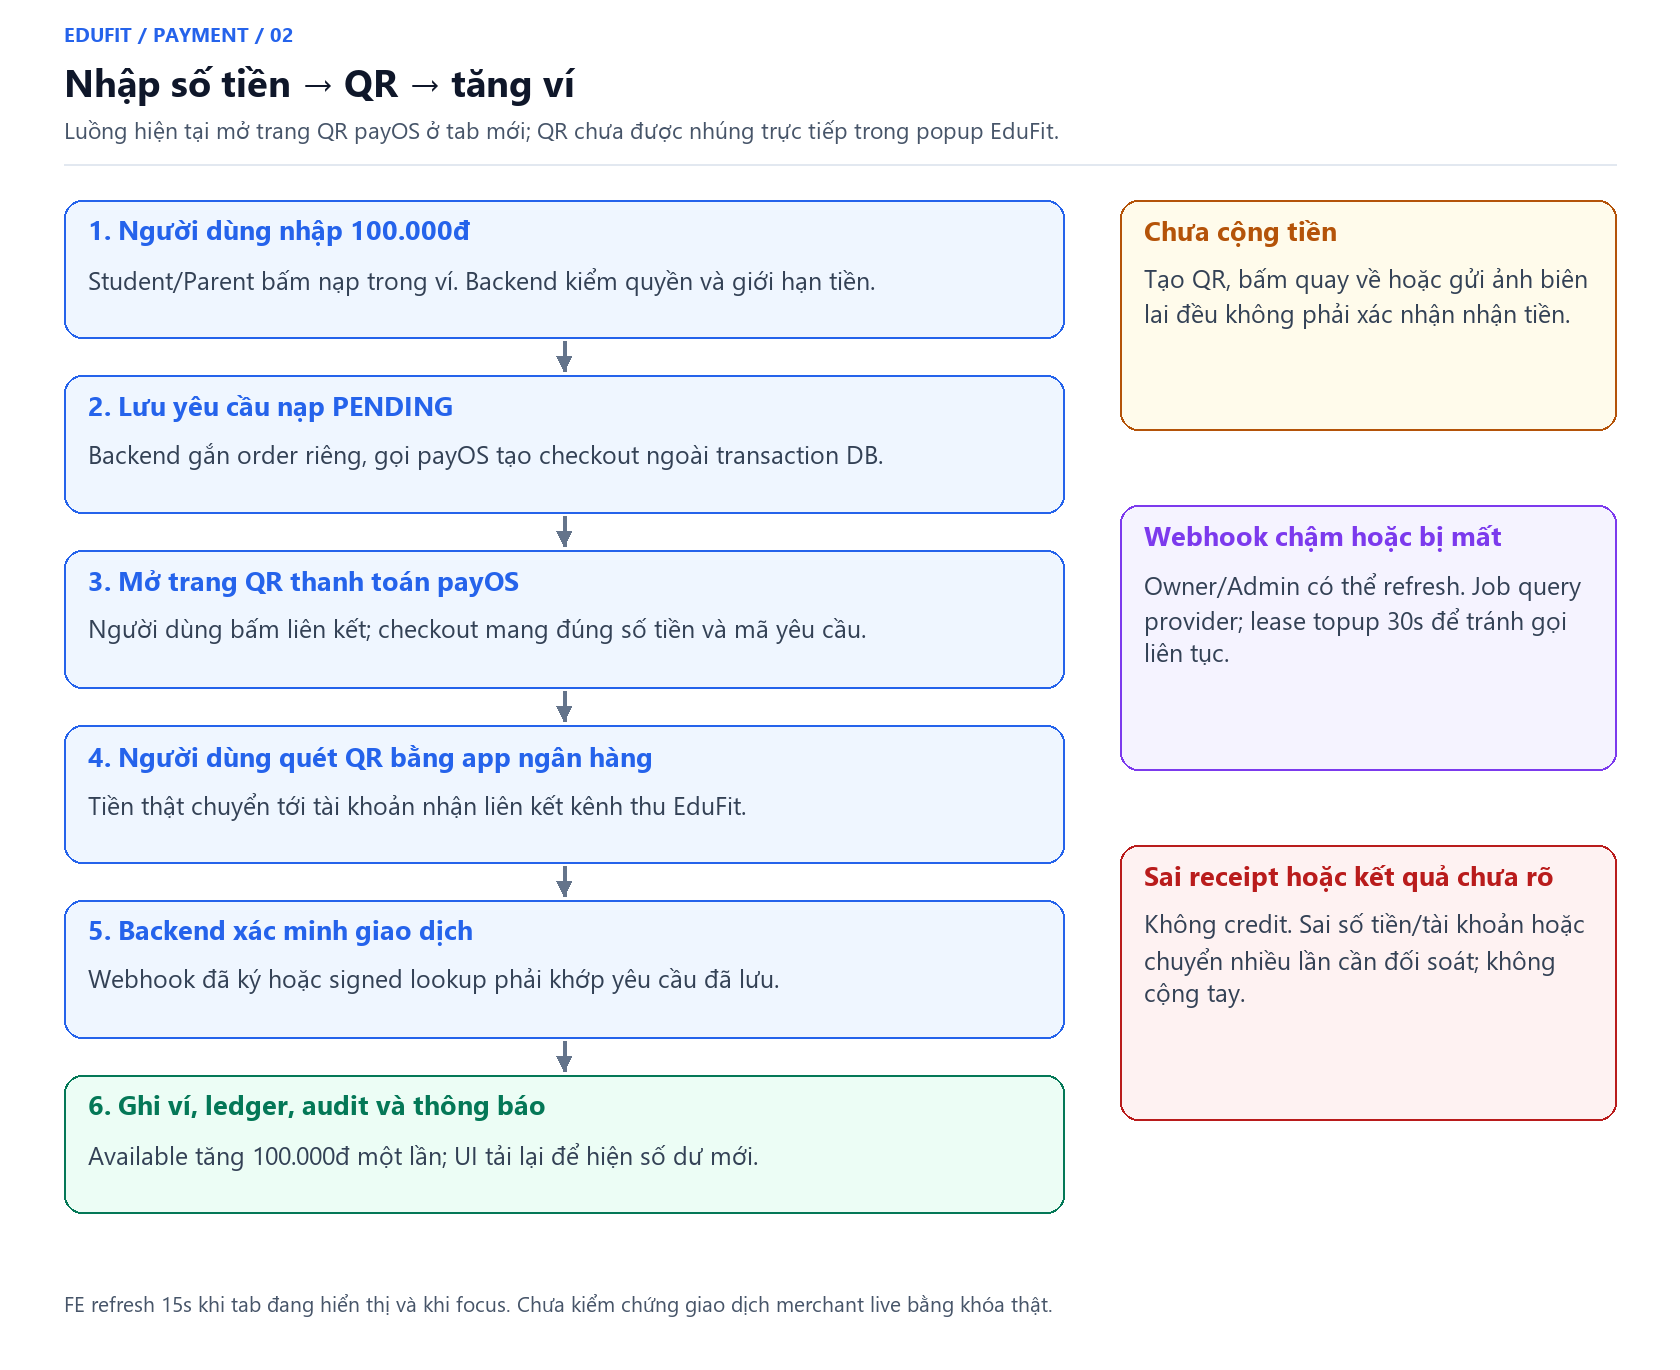
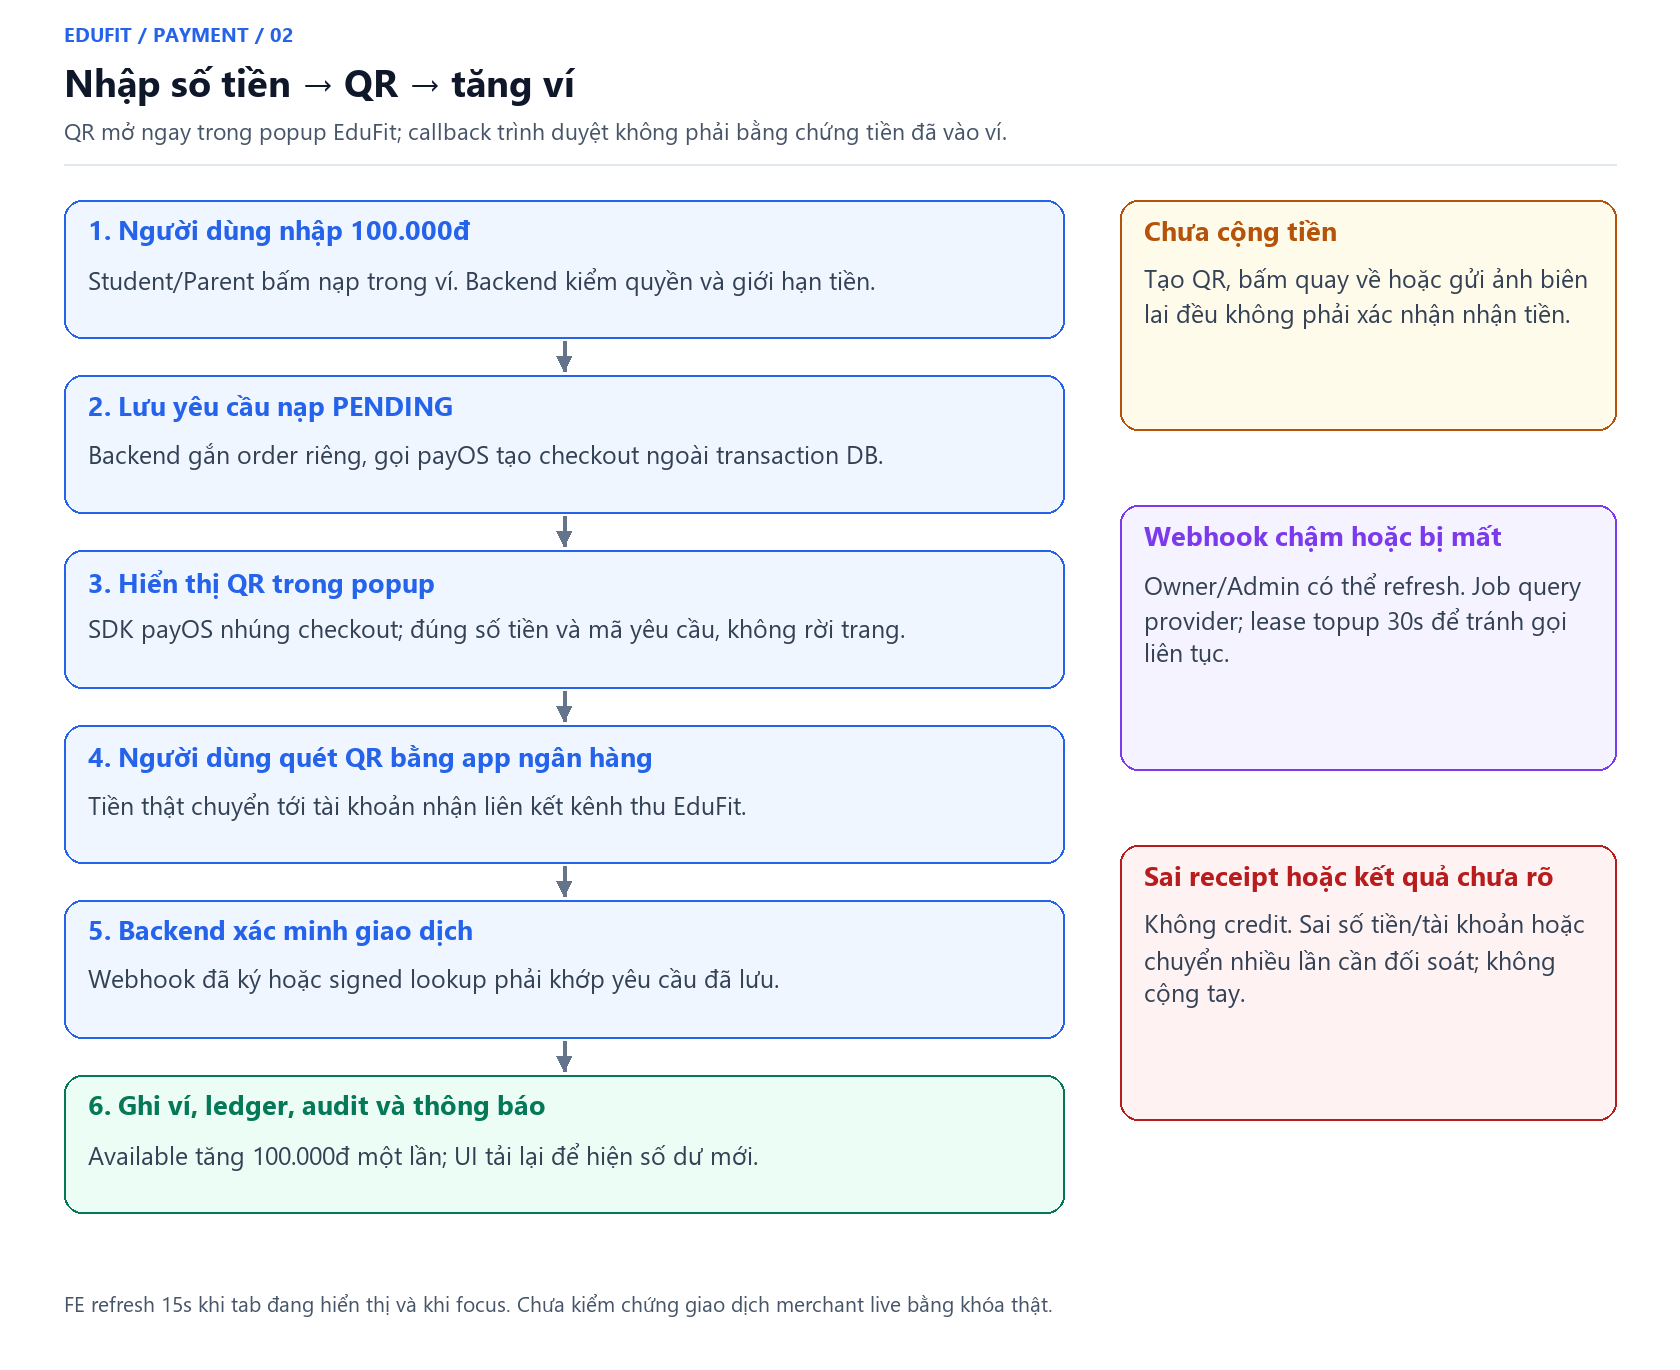
docs(payment): document compact wallets and embedded QR checkout

Changed region(s): [[0.0619, 0.3985, 0.5262, 0.4905], [0.031, 0.092, 0.619, 0.1226]]

diff --git a/scripts/render-payment-diagrams.py b/scripts/render-payment-diagrams.py
@@ -142,11 +142,11 @@ def overview():
 
 
 def topup():
-    d=Diagram('payment-topup-flow',2,'Nhập số tiền → QR → tăng ví','Luồng hiện tại mở trang QR payOS ở tab mới; QR chưa được nhúng trực tiếp trong popup EduFit.',1370)
+    d=Diagram('payment-topup-flow',2,'Nhập số tiền → QR → tăng ví','QR mở ngay trong popup EduFit; callback trình duyệt không phải bằng chứng tiền đã vào ví.',1370)
     steps=[
         ('1. Người dùng nhập 100.000đ','Student/Parent bấm nạp trong ví. Backend kiểm quyền và giới hạn tiền.'),
         ('2. Lưu yêu cầu nạp PENDING','Backend gắn order riêng, gọi payOS tạo checkout ngoài transaction DB.'),
-        ('3. Mở trang QR thanh toán payOS','Người dùng bấm liên kết; checkout mang đúng số tiền và mã yêu cầu.'),
+        ('3. Hiển thị QR trong popup','SDK payOS nhúng checkout; đúng số tiền và mã yêu cầu, không rời trang.'),
         ('4. Người dùng quét QR bằng app ngân hàng','Tiền thật chuyển tới tài khoản nhận liên kết kênh thu EduFit.'),
         ('5. Backend xác minh giao dịch','Webhook đã ký hoặc signed lookup phải khớp yêu cầu đã lưu.'),
         ('6. Ghi ví, ledger, audit và thông báo','Available tăng 100.000đ một lần; UI tải lại để hiện số dư mới.')]

diff --git a/docs/payment/wallet-ui.md b/docs/payment/wallet-ui.md
@@ -1,0 +1,43 @@
+# Giao diện ví và thanh toán — 26/10/2026
+
+Triển khai trên `feat/payment`. Đợt này thay giao diện, giữ nguyên API/nghiệp vụ tiền và cửa sổ 24h/48h trong [quy tắc hiện hành](payment-usability.md). Không thêm migration hoặc biến merchant mới.
+
+## Student và Parent
+
+- Thẻ số dư khả dụng nổi bật; số tiền đang giữ hiển thị riêng. Parent dùng tiêu đề Ví học phí gia đình.
+- Nhập số tiền hoặc chọn nhanh 100.000 / 200.000 / 500.000đ → **Tạo mã QR**. QR xuất hiện trong popup ngay trên trang.
+- Nếu có yêu cầu còn hạn đang chờ, **Tiếp tục nạp tiền** mở lại cùng checkout, không tạo order mới. UI chặn gửi lặp khi đang tạo yêu cầu; backend create vẫn chưa có client idempotency key, không coi các yêu cầu mới là cùng một order.
+- Danh sách học phí gọn, có tháng và bộ lọc Tất cả / Cần phản hồi / Đã xong; ban đầu tối đa 5 buổi, bấm thêm khi cần. Mũi tên dẫn đúng trang chi tiết theo role.
+- Hoạt động gần đây chỉ hiển thị 4 dòng. **Xem tất cả giao dịch** mở dialog phân trang với biến động số dư hoặc yêu cầu nạp/rút. Đọc lịch sử không đổi số dư đang hiển thị ở trang chính.
+
+## Popup QR
+
+[payOS Checkout Script JS chính thức](https://payos.vn/docs/sdks/front-end/script-js/) hỗ trợ embedded checkout. FE tải trực tiếp `https://cdn.payos.vn/payos-checkout/v1/stable/payos-initialize.js`, đưa checkout HTTPS host `pay.payos.vn` vào iframe thông qua SDK. Không đưa Client ID/API Key/Checksum Key vào frontend; SDK chỉ nhận checkout URL và return URL của trang đang mở.
+
+- Desktop chia hai cột: số tiền/nút kiểm tra và QR. Mobile xếp dọc, popup có thể cuộn, nút đóng luôn ở đầu.
+- Manual QR hiển thị ảnh từ host `img.vietqr.io` trong popup, kèm nội dung chuyển khoản và sao chép; vẫn chờ Admin đối chiếu giao dịch thật.
+- Callback `onSuccess` chỉ yêu cầu backend refresh/đối soát. Chỉ khi API trả PAID hoặc snapshot ví chứa PAID mới hiển thị **Nạp tiền thành công**; không tự tăng số dư từ callback, đóng cửa sổ hoặc nút Tôi đã chuyển tiền.
+- SDK tải lỗi/cửa sổ provider đóng: hiển thị hướng dẫn thử lại hoặc kiểm tra tiền. Không tự tạo yêu cầu khác khi retry tải QR.
+- Escape/nút X đóng popup, trả focus về nút đã mở; **đóng popup không đồng nghĩa hủy yêu cầu nạp**. SDK được dọn trước khi gỡ phần tử iframe; callback đến sau khi đóng không gọi API.
+- Nếu popup bị chặn bởi mạng/CSP, cho phép nguồn script chính thức ở `script-src`, nguồn iframe payOS ở `frame-src` theo tài liệu provider; không tắt CSP/TLS. `PAYMENT_FRONTEND_URL` phải là frontend đang sử dụng như cấu hình trước đây. Webhook HTTPS và signed lookup tiếp tục là nguồn xác nhận tiền.
+
+## Tutor
+
+Trang chính hiển thị tiền có thể rút, thu nhập chờ tất toán và đang chờ chi trả. Thu nhập chờ là dự kiến sau phí, chưa rút được. Tài khoản ngân hàng mặc định được che số.
+
+**Rút tiền** mở popup: nhập số tiền hoặc Rút toàn bộ → xem lại người nhận/số tiền/phí → Xác nhận rút tiền. Focus chuyển vào phần xem lại; lỗi API hiện trong popup. Pending/Processing hoặc thiếu số dư chặn yêu cầu mới. Đổi/thêm tài khoản cũng mở popup, giữ cơ chế ID phiên bản và snapshot người nhận cũ; không thêm xác minh ngân hàng tự động.
+
+## Admin
+
+Ba hàng đợi riêng: Chi trả gia sư / Nạp tiền / Hồ sơ vấn đề. Mặc định ưu tiên chi trả còn chờ, tiếp đến nạp, rồi hồ sơ; trang `/admin/disputes` vào thẳng hồ sơ. Số lượng là số liệu **trang hiện tại**, không phải tổng toàn hệ thống. Chọn gồm yêu cầu đã xử lý để xem terminal; phân trang giữ giới hạn API 50 dòng.
+
+Cấu hình thu/chi và mã đối soát đặt trong phần mở rộng. Xác minh nạp, ghi nhận chuyển thủ công hoặc duyệt chi mở dialog yêu cầu ghi chú và reference như trước. PROCESSING chỉ đối soát, không cho đánh dấu chuyển tay/từ chối. Hồ sơ khiếu nại dẫn tới chi tiết Admin hiện có, không duyệt trực tiếp trên danh sách.
+
+## Kiểm chứng và giới hạn
+
+- 36 FE tests PASS: 8 quyết định buổi học, 8 ví/tài khoản/rút, 7 QR, 5 Admin đối soát, 2 Admin phân xử, 4 workspace, 2 notification routing. Sau chỉnh focus/layout, chạy lại 15 QR/withdraw tests PASS. Type-check, lint và production Webpack build PASS.
+- Browser fixture dùng component thật, toàn bộ API và SDK/QR giả: Student/Parent/Tutor/Admin, lịch sử, popup, Escape/focus, bước xem lại rút và Admin; kiểm 320/768/1024/1440px không tràn ngang. Sau tải mới không lỗi console; các cảnh báo createRoot từ hot reload fixture không phải lỗi ứng dụng. Tab/server fixture đã dừng.
+- Build đầu lỗi CA Google Fonts và vài lượt reset/timeout; dùng CA tin cậy Windows và chạy lại thành công. Không tắt kiểm chứng TLS hoặc thay font ứng dụng.
+- Chưa kiểm chứng checkout live/merchant hoặc giao dịch ngân hàng. Bố cục iframe thực phụ thuộc payOS; QR minh họa trong ảnh preview không dùng chuyển tiền. Không chạy lại BE vì đợt này không đổi BE, API tiền hoặc migration.
+
+Commit code: `bd5520f` popup QR; `557cebd` ví/thu nhập; `6bb05f0` Admin; `06a331e` responsive/focus. [Task](../../tasks/payment/wallet-ui-plan.md), [báo cáo](verification-report.md), [setup](payos-setup.md).

diff --git a/docs/payment/verification-report.md b/docs/payment/verification-report.md
@@ -116,3 +116,13 @@ P10 mobile fix `a3dfd37` và FE provider `31ccac8` đã push. P11: hướng dẫ
 - Không gọi merchant/payOS/Meet/Zoom thật; không thay env hoặc bật kênh chi. V1.21 cần restart backend; không repair/clean/reset DB. Admin cần theo dõi hàng đợi giữ tiền; chưa có SLA/nhắc trước hạn, upload bằng chứng, appeal, reauthentication riêng đổi ngân hàng hoặc webhook đo giờ học.
 
 - Kiểm tĩnh cuối: 13 Markdown / 125 liên kết local hợp lệ; 7 cặp PNG/SVG đọc/parse được; generator kiểm khung chữ và overlap PASS; git diff --check PASS. Preview/logs và .env không được Git theo dõi. Backend và FE đã push riêng `2c3270b`, `20ad2f6`; commit tài liệu kết thúc đợt này.
+
+## Thiết kế lại giao diện ví và QR popup — 26/10/2026
+
+- Các commit đã push: `bd5520f` popup QR + SDK chính thức, `557cebd` ví learner/tutor và lịch sử theo yêu cầu, `6bb05f0` hàng đợi Admin/dialog, `06a331e` responsive/focus và regression lỗi rút. Tài liệu tại [wallet-ui](wallet-ui.md).
+- RED trước code: 5 QR tests và 4 workspace tests fail theo UI cũ; test Admin mới fail vì chưa tách hàng đợi/dialog. GREEN gate cuối **36 tests / 7 files PASS**, type-check/lint Payment PASS. Sau CSS/focus/error polish chạy lại 15 QR/withdraw tests PASS. Production `next build --webpack` PASS (giai đoạn sinh trang 52/52 và các route dynamic chi tiết).
+- Google Fonts ban đầu gặp CA và ECONNRESET/timeout. Giữ xác minh TLS, dùng CA Windows tin cậy, kiểm truy cập CSS/font CDN rồi build lại thành công; có warning package-lock ngoài repo như trước. Không thay font, dependency hoặc Next config.
+- Browser component thật trên fixture riêng: 4 role, popup QR không đổi trang, lịch sử theo yêu cầu, Escape/focus-return, focus phần xem lại rút, Admin verify chưa submit; 320/768/1024/1440 không tràn ngang. HMR fixture từng báo createRoot trùng, tải mới không có error/warn; iframe và API đều mock, QR có nhãn DEMO. Đã reset viewport, đóng tab/server tự tạo. Không tuyên bố live payOS hoặc E2E DB vận hành đã qua.
+- Không đổi BE/nghiệp vụ tiền/SQL/env. Không chạy lại Maven cho thay đổi FE này; không tạo/chuyển tiền ngân hàng. Callback SDK không cộng ví; retry SDK không tạo order khác, tiếp tục order pending không gọi create, ID tài khoản cũ vẫn bị chặn khi rút.
+
+- Kiểm docs cuối: 15 Markdown, 135 local links hợp lệ, 7 cặp PNG/SVG đọc được; render diagram nạp popup và xem ảnh PASS, git diff --check PASS. .env/logs/preview vẫn ignored.

diff --git a/tasks/payment/wallet-ui-plan.md b/tasks/payment/wallet-ui-plan.md
@@ -8,3 +8,12 @@ Nhánh `feat/payment`, tiếp tục từ `e47828e`. Người dùng yêu cầu gi
 4. **Kiểm chứng/bàn giao:** test FE, type/lint/production build, browser fixture desktop/mobile/bàn phím, cập nhật docs; commit/push riêng từng phần. Preview không gọi payOS hoặc database thật.
 
 Nguồn tích hợp: https://payos.vn/docs/sdks/front-end/script-js/ — script tải trực tiếp CDN, embedded, cleanup exit; callback FE chỉ yêu cầu backend xác minh, không ghi tiền.
+
+## Hoàn thành
+
+- [x] Phần 1: `bd5520f`, popup QR chính thức/manual và kiểm verified status; đã push.
+- [x] Phần 2: `557cebd`, trang ví/thu nhập gọn và lịch sử theo yêu cầu; đã push.
+- [x] Phần 3: `6bb05f0`, 3 hàng đợi Admin + dialog xác minh; đã push.
+- [x] Phần 4: `06a331e` chỉnh responsive/focus; 36 FE tests và type/lint/build PASS, browser fixture desktop/mobile. Docs/schema nghiệp vụ hiện có giữ rule tiền; cập nhật hướng dẫn UI và sơ đồ nạp. Không có migration/backend/env thay đổi.
+
+Đây là bốn phần công việc, không coi số commit là số task mới. Phần tài liệu được commit riêng khi bàn giao; kiểm thử live merchant tiếp tục để người dùng thực hiện có kiểm soát.

diff --git a/docs/payment/payment-usability.md b/docs/payment/payment-usability.md
@@ -4,7 +4,7 @@ Cập nhật **26/10/2026**, nhánh `feat/payment`. Đây là quy tắc hiện h
 
 ## 1. Người dùng thao tác ở đâu?
 
-Ví hiển thị số dư, nạp/rút và lịch sử. Danh sách buổi học hiển thị trạng thái, hạn phản hồi và bước tiếp theo; bấm **Xem chi tiết buổi học** mới mở các thao tác. Thông báo dẫn tới đúng buổi, không chỉ dẫn chung về ví.
+Ví mới ưu tiên số dư/nạp/rút, bốn hoạt động gần đây và danh sách buổi gọn; lịch sử đầy đủ mở theo yêu cầu. Xem [thiết kế giao diện và popup QR](wallet-ui.md). Danh sách buổi học hiển thị trạng thái, hạn phản hồi và bước tiếp theo; bấm **Xem chi tiết buổi học** mới mở các thao tác. Thông báo dẫn tới đúng buổi, không chỉ dẫn chung về ví.
 
 | Vai trò | Chi tiết buổi học |
 |---|---|

diff --git a/tasks/payment/todo.md b/tasks/payment/todo.md
@@ -107,3 +107,7 @@ Các kết quả test đã ghi ở [verification-report](../../docs/payment/veri
 - [x] U04: rules/API/schema/runbook/diagrams và báo cáo kiểm thử; xem [quy tắc hiện hành](../../docs/payment/payment-usability.md).
 - [ ] Restart backend để Flyway áp dụng V1.21 trong môi trường người dùng; không sửa/repair migration cũ.
 - [ ] Kiểm chứng live provider, webhook công khai và vận hành Admin theo dõi hồ sơ; chưa nằm trong bằng chứng mock/Testcontainers.
+
+## Giao diện ví gọn và QR popup — 26/10
+
+- [x] Hoàn thành [4 phần UI](wallet-ui-plan.md): popup QR, Student/Parent/Tutor, Admin, kiểm chứng/bàn giao. 36 FE tests, type/lint/build PASS; browser fixture đủ 4 role và 4 breakpoint, chưa giao dịch live.

diff --git a/docs/payment/README.md b/docs/payment/README.md
@@ -6,6 +6,7 @@ Cập nhật 24/10/2026 trên `feat/payment`, gồm bản sửa tài khoản ả
 
 | Tài liệu | Dùng khi nào? |
 |---|---|
+| [Giao diện ví gọn và popup QR](wallet-ui.md) | Student/Parent/Tutor/Admin, nạp QR tại chỗ, lịch sử theo yêu cầu |
 | [Quy tắc và trải nghiệm 26/10](payment-usability.md) | Đọc trước: đủ 24h, giữ tiền chờ Admin, quyền payer/student và chi tiết hồ sơ |
 | [Luồng, rule và cơ chế Payment — có ảnh diagram](payment-flow-and-rules.md) | Đọc từ góc nhìn người dùng: 7 ảnh, từng bước xử lý, 30 rule và ví dụ tiền trước/sau |
 | [Giải trình kiến trúc và cơ chế](payment_implementation_plan.md) | Nghiệp vụ, tiền, module, file, schema và Q&A |

diff --git a/docs/payment/payment-flow-and-rules.md b/docs/payment/payment-flow-and-rules.md
@@ -52,7 +52,7 @@ Available và held đều không âm. Held không chỉ dành cho tranh chấp: 
 
 1. Student/Parent vào trang ví, nhập số tiền, ví dụ 100.000đ.
 2. Bấm nạp. Backend tạo topup riêng và yêu cầu payOS tạo checkout.
-3. EduFit hiển thị **Mở trang QR thanh toán payOS**. Bấm liên kết để mở tab mới; hiện chưa có QR payOS nhúng trong popup EduFit.
+3. EduFit mở **popup QR** ngay trên trang, dùng SDK embedded chính thức của payOS. Không chuyển sang tab mới; xem [giao diện và cơ chế popup](wallet-ui.md).
 4. Kiểm tra số tiền/tài khoản trên checkout và dùng app ngân hàng quét QR.
 5. Sau xác minh, ví tăng đúng số tiền và có lịch sử/thông báo.
 
